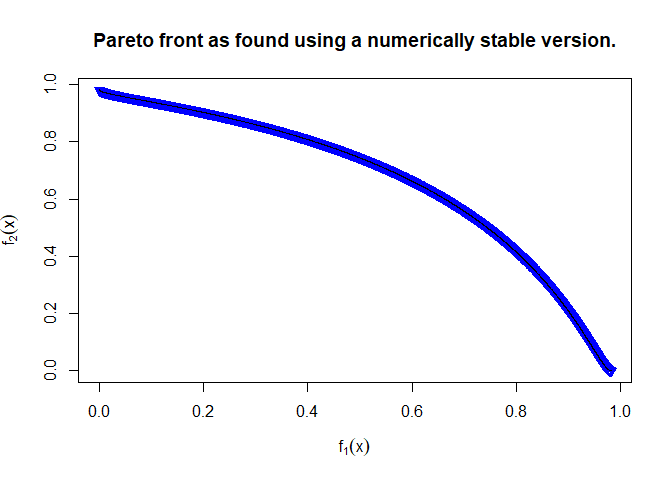
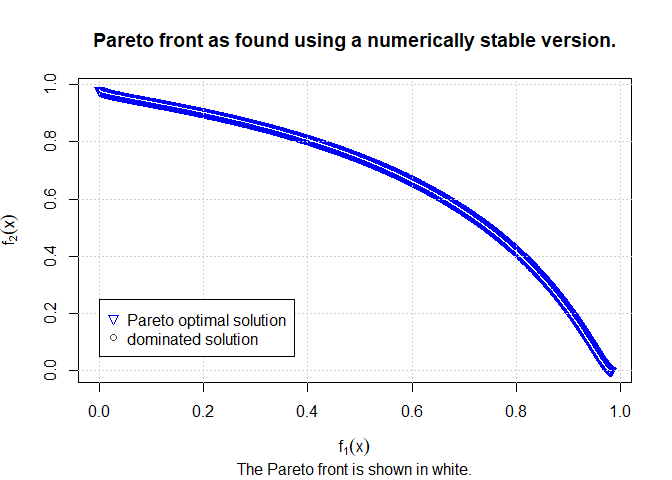
Cosmetic changes and re-render notebook as markdown

diff --git a/notebooks/precondition-moop.md b/notebooks/precondition-moop.md
@@ -356,9 +356,10 @@ results are useless. Therefore, we need to re-define the problem in a
 more numerically stable way.
 
 We will use the following surrogate functions to map the objectives of
-the optimization problem into a more numerically stable range. In
-pre-conditioning, we want to learn a **bijective** function that maps a
-loss to a score, so this is a valid thing to do.
+the optimization problem into a more numerically stable range
+(log -transform). In pre-conditioning, we want to learn a **bijective**
+function that maps a loss to a score, so this is a valid thing to do, as
+long as we apply the *same* transformation to *all* objectives.
 
 ``` r
 ex1_f1_prime <- function(x) {
@@ -510,8 +511,8 @@ transform it into a score (i.e., low loss equals high score). For this,
 we will uniformly sample from the hyperparameter space. For this
 problem, we have *i* parameters. The samples’ matrix will therefore have
 dimensions *m* × *i*, where *m* is the number of samples we wish to
-draw. This number should be *l**l*∥ ℋ ∥, i.e., much fewer samples than
-the hyperparameter space’s size. Here, we will draw 1, 000 samples.
+draw. This number should be  ≪ ∥ ℋ ∥, i.e., much fewer samples than the
+hyperparameter space’s size. Here, we will draw 1, 000 samples.
 
 For this, we will create another (but smaller) random grid that will be
 used to sample from the solution space of
@@ -607,7 +608,7 @@ c(ex1_f1(res$solution), ex1_f2(res$solution))
 
 We notice a problem here. When running this repeatedly (even with
 different seeds), the optimizer stops after a single iteration. Also,
-the losses are quite large. This indicates, that the problem cannot
+the losses are quite large. This indicates that the problem cannot
 converge at all. Let’s check the gradients:
 
 ``` r
@@ -622,9 +623,9 @@ Here is a problem. The gradient is always zero for all variables. Let’s
 attempt the following: Instead of estimating the ECDF, we will fit a
 parametric distribution. In fact, let’s test the normal distribution,
 since the ECDFs looked quite like the CDFs of a normal distribution. In
-practice, one would perhaps be better of attempting to fit a wider range
-of potential distributions, then going with the best (using, e.g., the
-*D*-statistic of the KS-test).
+practice, one would perhaps be better off attempting to fit a wider
+range of potential distributions, then going with the best (using, e.g.,
+the *D*-statistic of the KS-test).
 
 ``` r
 ex1_f1_eccdf_norm <- function(x) {
@@ -635,13 +636,14 @@ ex1_f2_eccdf_norm <- function(x) {
 }
 ```
 
-The ECCDF s of figure look quite similar to those we got empirically.
-They do have a two advantages, though. First, smoothness – we should not
-end up with all zeros for the gradients. Second, an ECDF  returns 0 for
-values less than any of the observed ones, and 1 for values beyond the
-observed range. The parametric CDF  however will never really reach 0 or
-1, which means that even tiny differences in *x* will result in tiny
-differences in *y*, before and beyond the actually observed values.
+The CCDF s of figure look quite similar to the ECCDF s we got
+empirically. They do have a two advantages, though. First, smoothness –
+we should not end up with all zeros for the gradients. Second, an ECDF 
+returns 0 for values less than any of the observed ones, and 1 for
+values beyond the observed range. The parametric CDF  however will never
+really reach 0 or 1, which means that even tiny differences in *x* will
+result in tiny differences in *y*, before and beyond the actually
+observed values.
 
 ``` r
 par(mfrow = c(1, 2))
